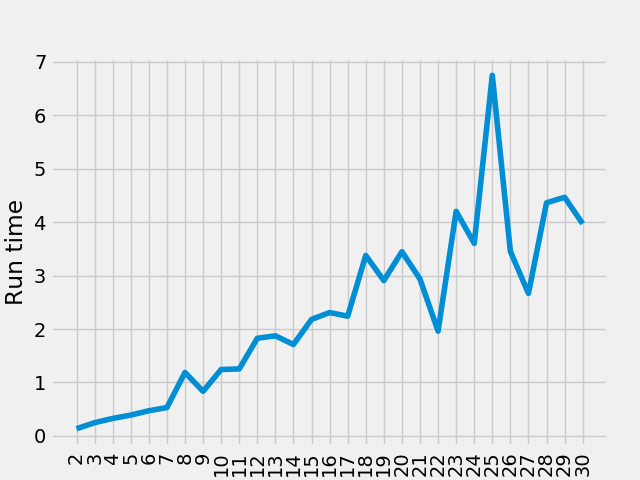
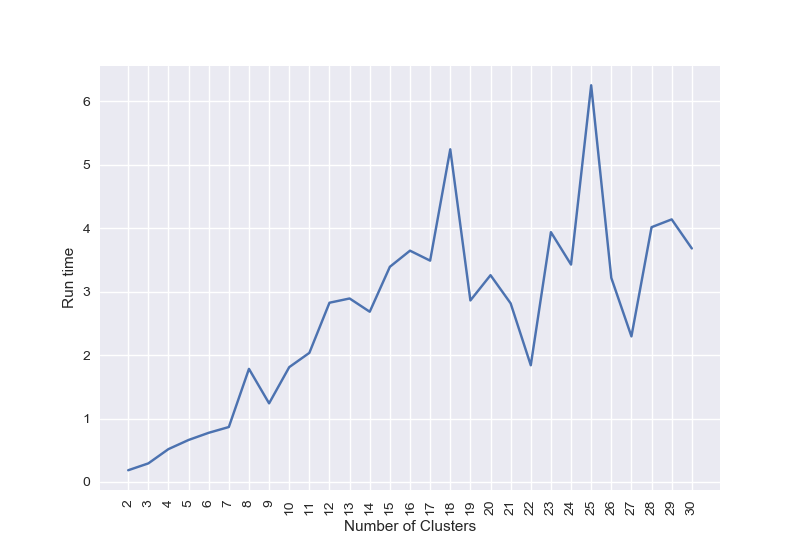
Adding code files and generated graphs

Changed region(s): [[0.0, 0.125, 0.9375, 1.0], [0.0938, 0.2812, 0.125, 0.3125]]

diff --git a/dr/pca.py b/dr/pca.py
@@ -3,12 +3,14 @@ import numpy as np
 import pandas as pd
 import matplotlib.pyplot as plt
 from kneed import KneeLocator
+from sklearn.model_selection import cross_validate
+from sklearn.neural_network import MLPClassifier
+
 
 def perform_pca(features, datasetLabel):
     data_PCA = PCA(random_state=120)
     data_eigen = data_PCA.fit(features)
     data_variance = data_eigen.explained_variance_
-    # variance_total = np.sum(data_variance)
     plot_features = np.arange(start=1, stop=features.shape[1]+1)
     data = {'variance': data_variance,
             'features': plot_features }
@@ -18,20 +20,66 @@ def perform_pca(features, datasetLabel):
         plot_features, data_variance, curve="convex", direction="decreasing"
     )
     print(kl.elbow)
-    print(kl.knee)
-
     kl.plot_knee()
-
-    '''ax = plt.gca()
-    df.plot(kind='line', x='features', y='variance', marker='o', ax=ax)'''
     plt.xlabel('Features')
     plt.ylabel('Variance')
     plt.title('Variance vs features')
     plt.grid(True)
-    plt.savefig('plots/dr/'+datasetLabel+'_variance_pca.png')
+    plt.savefig('plots/dr/pca/'+datasetLabel+'/variance_pca.png')
     plt.clf()
 
 def return_principal_components(data, k):
     pca = PCA(random_state=120, n_components=k)
     transformed_data = pca.fit_transform(data['features'])
     return transformed_data
+
+def validate_pca_nn(data, components, label):
+
+    mlp = MLPClassifier(hidden_layer_sizes=(15, 2), random_state=70, activation='relu', max_iter=500)
+    scoring = ['accuracy']
+    scores = cross_validate(mlp, data['features'], data['labels'], scoring=scoring, cv=10)
+    print(scores)
+    NN_fit_time = np.mean(scores['fit_time'])
+    NN_accuracy = np.mean(scores['test_accuracy'])
+    print(NN_fit_time)
+    print(NN_accuracy)
+
+    PCA_fit_time = []
+    PCA_accuracy = []
+    for component in components:
+        pca = PCA(n_components=component)
+        X_transformed = pca.fit_transform(data['features'])
+        scores_pca = cross_validate(mlp, X_transformed, data['labels'], scoring=scoring, cv=10)
+        print(scores_pca)
+        PCA_fit_time.append(np.mean(scores_pca['fit_time']))
+        PCA_accuracy.append(np.mean(scores_pca['test_accuracy']))
+
+    '''PCA_fit_time = [3.665920281410217, 5.589719676971436, 5.739713549613953, 4.759915351867676, 6.604079246520996, 7.830548286437988, 9.33339855670929, 9.744733643531799, 9.080630040168762]
+    PCA_accuracy = [0.6659570405881088, 0.7235447290649878, 0.7669033156528463, 0.7970856075702004, 0.7824843651229132, 0.8005755784663862, 0.790994503325921, 0.7823971659880056, 0.8010241686801886]'''
+
+    print('PCA_fit_time => ',PCA_fit_time)
+    print('PCA_accuracy => ', PCA_accuracy)
+
+    plt.style.use("seaborn")
+    plt.figure(figsize=(8,8))
+    plt.plot(components, PCA_accuracy)
+    plt.xticks(components)
+    plt.axhline(y=NN_accuracy, color='r', linestyle='-')
+    plt.xlabel("Principal Components")
+    plt.ylabel('NN Accuracy')
+    plt.grid(True)
+    plt.savefig('plots/dr/pca/'+label+'/pca_accuracy.png')
+
+    plt.clf()
+
+    plt.style.use("seaborn")
+    plt.plot(components, PCA_fit_time)
+    plt.xticks(components)
+    plt.axhline(y=NN_fit_time, color='r', linestyle='-')
+    plt.xlabel("Principal Components")
+    plt.ylabel('NN Fit Time')
+    plt.grid(True)
+    plt.savefig('plots/dr/pca/' + label + '/pca_fit_time.png')
+
+    plt.clf()
+

diff --git a/dr/ica.py b/dr/ica.py
@@ -2,10 +2,15 @@ import pandas as pd
 import numpy as np
 import matplotlib.pyplot as plt
 
+from sklearn.metrics import mean_squared_error
+from math import sqrt
+
 from sklearn.decomposition import FastICA
 from scipy.stats import kurtosis
+from sklearn.model_selection import cross_validate
+from sklearn.neural_network import MLPClassifier
 
-def perform_ica(features, datasetLabel):
+def perform_ica(features, datasetLabel, components):
     print('ica start for ',datasetLabel)
     transformer = FastICA( max_iter=550, random_state = 0, whiten=True)
     X_transformed = transformer.fit_transform(features)
@@ -15,3 +20,69 @@ def perform_ica(features, datasetLabel):
     X_transformed = pd.DataFrame(X_transformed)
     feature_kurtosis = X_transformed.kurt(axis=0)
     print('Modified_kurtosis ',feature_kurtosis)
+    recon_error = []
+    # validate RMSE for reconstruction
+    for component in components:
+        transformer = FastICA(max_iter=550, random_state=20, whiten=True, n_components=component)
+        X_transformed = transformer.fit_transform(features)
+        X_recon = transformer.inverse_transform(X_transformed)
+        rmse = sqrt(mean_squared_error(features, X_recon))
+        recon_error.append(rmse)
+
+    print('recon_error => ',recon_error)
+
+    plt.style.use("seaborn")
+    plt.plot(components, recon_error, marker='o')
+    plt.xticks(components, rotation="90")
+    plt.xlabel("ICA Components")
+    plt.ylabel('Reconstruction error')
+    plt.savefig('plots/dr/ica/' + datasetLabel + '/ica_recon_error.png')
+    plt.clf()
+
+def validate_ica_nn(data, components, label):
+
+    mlp = MLPClassifier(hidden_layer_sizes=(15, 2), random_state=70, activation='relu', max_iter=500)
+    scoring = ['accuracy']
+    scores = cross_validate(mlp, data['features'], data['labels'], scoring=scoring, cv=10)
+    print(scores)
+    NN_fit_time = np.mean(scores['fit_time'])
+    NN_accuracy = np.mean(scores['test_accuracy'])
+    print(NN_fit_time)
+    print(NN_accuracy)
+
+    ICA_fit_time = []
+    ICA_accuracy = []
+    for component in components:
+        pca = FastICA(n_components=component)
+        X_transformed = pca.fit_transform(data['features'])
+        scores_pca = cross_validate(mlp, X_transformed, data['labels'], scoring=scoring, cv=10)
+        print(scores_pca)
+        ICA_fit_time.append(np.mean(scores_pca['fit_time']))
+        ICA_accuracy.append(np.mean(scores_pca['test_accuracy']))
+
+
+    print('ICA_fit_time => ',ICA_fit_time)
+    print('ICA_accuracy => ', ICA_accuracy)
+
+    plt.style.use("seaborn")
+    plt.figure(figsize=(8,8))
+    plt.plot(components, ICA_accuracy, marker='o')
+    plt.xticks(components)
+    plt.axhline(y=NN_accuracy, color='r', linestyle='-')
+    plt.xlabel("Principal Components")
+    plt.ylabel('NN Accuracy')
+    plt.grid(True)
+    plt.savefig('plots/dr/ica/'+label+'/ica_accuracy.png')
+
+    plt.clf()
+
+    plt.style.use("seaborn")
+    plt.plot(components, ICA_fit_time, marker='o')
+    plt.xticks(components)
+    plt.axhline(y=NN_fit_time, color='r', linestyle='-')
+    plt.xlabel("Principal Components")
+    plt.ylabel('NN Fit Time')
+    plt.grid(True)
+    plt.savefig('plots/dr/ica/' + label + '/ica_fit_time.png')
+
+    plt.clf()

diff --git a/dr/performDr.py b/dr/performDr.py
@@ -1,30 +1,35 @@
 from data.deposit_data_loader import load_cleanse_data
 from data.income_evaluation_loader import loadData
 from dr import pca,ica, randomprojection
+from sklearn.feature_selection import RFE
 
 def performDepositPCA():
     data = load_cleanse_data()
-    pca.perform_pca(data['features'], 'Term_Deposit')
+    pca.perform_pca(data['features'], 'deposit')
+    pca.validate_pca_nn(data, [7, 10, 15, 20, 25, 30, 35, 40, 41], 'deposit')
 
 def performIncomePCA():
     data = loadData()
-    pca.perform_pca(data['features'], 'Income_Analysis')
+    pca.perform_pca(data['features'], 'income')
+    pca.validate_pca_nn(data, [4, 6, 8, 10, 12,14], 'income')
 
 def performDepositICA():
     data = load_cleanse_data()
-    ica.perform_ica(data['features'], 'Term_Deposit')
+    ica.perform_ica(data['features'], 'deposit', [7, 10, 15, 20, 25, 30, 35, 40, 41])
+    ica.validate_ica_nn(data, [7, 10, 15, 20, 25, 30, 35, 40, 41], 'deposit')
 
 def performIncomeICA():
     data = loadData()
-    ica.perform_ica(data['features'], 'Income_Analysis')
+    ica.perform_ica(data['features'], 'income', [4, 6, 8, 10, 12, 14])
+    ica.validate_ica_nn(data, [4, 6, 8, 10, 12, 14], 'income')
 
 def performDepositRandomProjection():
     data = load_cleanse_data()
-    randomprojection.apply_rp(data['features'], 10,'Term_Deposit')
+    randomprojection.apply_rp(data['features'], 10,'deposit')
 
 def performDR():
-    # performDepositPCA()
-    # performIncomePCA()
+    #performDepositPCA()
+    #performIncomePCA()
     performDepositICA()
     performIncomeICA()
-    #performDepositRandomProjection()
+    # performDepositRandomProjection()

diff --git a/clustering/kmeans.py b/clustering/kmeans.py
@@ -17,8 +17,8 @@ def estimate_k(data, label, basePath, distance_metric):
         db_score.append(davies_bouldin_score(data['features'], kmeans.labels_))
         run_times.append(endTime - startTime)
 
-    plt.style.use("fivethirtyeight")
-    plt.plot(range(2, 31), silhoute_score)
+    plt.style.use("seaborn")
+    plt.plot(range(2, 31), silhoute_score, marker='o')
     plt.xticks(range(2, 31), rotation="90")
     plt.xlabel("Number of Clusters")
     plt.ylabel('Silhoute Coefficients')
@@ -26,16 +26,16 @@ def estimate_k(data, label, basePath, distance_metric):
 
     plt.clf()
 
-    plt.style.use("fivethirtyeight")
-    plt.plot(range(2, 31), db_score)
+    plt.style.use("seaborn")
+    plt.plot(range(2, 31), db_score, marker='o')
     plt.xticks(range(2, 31), rotation="90")
     plt.xlabel("Number of Clusters")
     plt.ylabel('Davies Bouldin Score')
     plt.savefig(basePath + label + '/DB_Score')
     plt.clf()
 
-    plt.style.use("fivethirtyeight")
-    plt.plot(range(2, 31), run_times)
+    plt.style.use("seaborn")
+    plt.plot(range(2, 31), run_times, marker='o')
     plt.xticks(range(2, 31), rotation="90")
     plt.xlabel("Number of Clusters")
     plt.ylabel('Run Times')
@@ -52,8 +52,8 @@ def validate_k(data, basePath, label):
         labels = data['labels']
         rand_score.append(adjusted_rand_score(labels, kmeans.labels_))
 
-    plt.style.use("fivethirtyeight")
-    plt.plot(range(2, 31), rand_score)
+    plt.style.use("seaborn")
+    plt.plot(range(2, 31), rand_score, marker='o')
     plt.xticks(range(2, 31), rotation="90")
     plt.xlabel("Number of Clusters")
     plt.ylabel('Adjusted Rand Score')

diff --git a/clustering/emclustering.py b/clustering/emclustering.py
@@ -16,7 +16,7 @@ def estimate_em_k(data, label, basepath, distance_metric):
         db_score.append(davies_bouldin_score(data['features'], predicted_labels))
         run_times.append(endTime - startTime)
 
-    plt.style.use("fivethirtyeight")
+    plt.style.use("seaborn")
     plt.plot(range(2, 31), silhoute_score)
     plt.xticks(range(2, 31), rotation="90")
     plt.xlabel("Number of Clusters")
@@ -25,7 +25,7 @@ def estimate_em_k(data, label, basepath, distance_metric):
     #plt.savefig('plots/em/' + label + '/Silhoute_Score')
     plt.clf()
 
-    plt.style.use("fivethirtyeight")
+    plt.style.use("seaborn")
     plt.plot(range(2, 31), db_score)
     plt.xticks(range(2, 31), rotation="90")
     plt.xlabel("Number of Clusters")
@@ -33,7 +33,7 @@ def estimate_em_k(data, label, basepath, distance_metric):
     plt.savefig(basepath + label + '/Db_Score')
     plt.clf()
 
-    plt.style.use("fivethirtyeight")
+    plt.style.use("seaborn")
     plt.plot(range(2, 31), run_times)
     plt.xticks(range(2, 31), rotation="90")
     plt.xlabel("Number of Clusters")
@@ -50,7 +50,7 @@ def validate_em_k(data, basepath, label):
         labels = data['labels']
         rand_score.append(adjusted_rand_score(labels, pred_labels))
 
-    plt.style.use("fivethirtyeight")
+    plt.style.use("seaborn")
     plt.plot(range(2, 31), rand_score)
     plt.xticks(range(2, 31), rotation="90")
     plt.xlabel("Number of Clusters")

diff --git a/drclustering/performdrclustering.py b/drclustering/performdrclustering.py
@@ -8,15 +8,15 @@ from clustering.emclustering import estimate_em_k
 def pcakMeans(data, pcVal, label, metric):
     pca_transformed_data = pca.return_principal_components(data, pcVal)
     print('PCA transformed data shape for kmeans ', pca_transformed_data.shape)
-    estimate_k({'features': pca_transformed_data}, label, 'plots/dr_clustering/kmeans/', metric)
-    validate_k({'features': pca_transformed_data, 'labels': data['labels']}, 'plots/dr_clustering/kmeans/', label)
+    estimate_k({'features': pca_transformed_data}, label, 'plots/dr_clustering/pca/kmeans/', metric)
+    validate_k({'features': pca_transformed_data, 'labels': data['labels']}, 'plots/dr_clustering/pca/kmeans/', label)
 
 
 def pcaem(data, pcVal, label, metric):
     pca_transformed_data = pca.return_principal_components(data, pcVal)
     print('PCA transformed data shape  for em ', pca_transformed_data.shape)
-    estimate_em_k({'features': pca_transformed_data}, label, 'plots/dr_clustering/em/', metric)
-    validate_k({'features': pca_transformed_data, 'labels': data['labels']}, 'plots/dr_clustering/em/', label)
+    estimate_em_k({'features': pca_transformed_data}, label, 'plots/dr_clustering/pca/em/', metric)
+    validate_k({'features': pca_transformed_data, 'labels': data['labels']}, 'plots/dr_clustering/pca/em/', label)
 
 
 def run_dr_kmeans():

diff --git a/dr/randomprojection.py b/dr/randomprojection.py
@@ -3,6 +3,6 @@ from sklearn import random_projection
 
 def apply_rp(features, components,indicator):
     print('Random projection for ',indicator)
-    transformer = random_projection.SparseRandomProjection(n_components=components, random_state=150)
+    transformer = random_projection.GaussianRandomProjection(n_components=components, random_state=150)
     reduced_features = transformer.fit_transform(features)
-    print(reduced_features.shape)
+    print(reduced_features)

diff --git a/main.py b/main.py
@@ -4,6 +4,6 @@ from drclustering import performdrclustering
 
 if __name__ == '__main__':
     # performclustering.clusteringExpt()
-    performDr.performDR()
-    # performdrclustering.run_dr_kmeans()
+     performDr.performDR()
+    #performdrclustering.run_dr_kmeans()
 

diff --git a/main_kmeans.py b/main_kmeans.py
@@ -1,0 +1,4 @@
+from clustering import performclustering
+
+if __name__ == '__main__':
+    performclustering.clusteringExpt()
